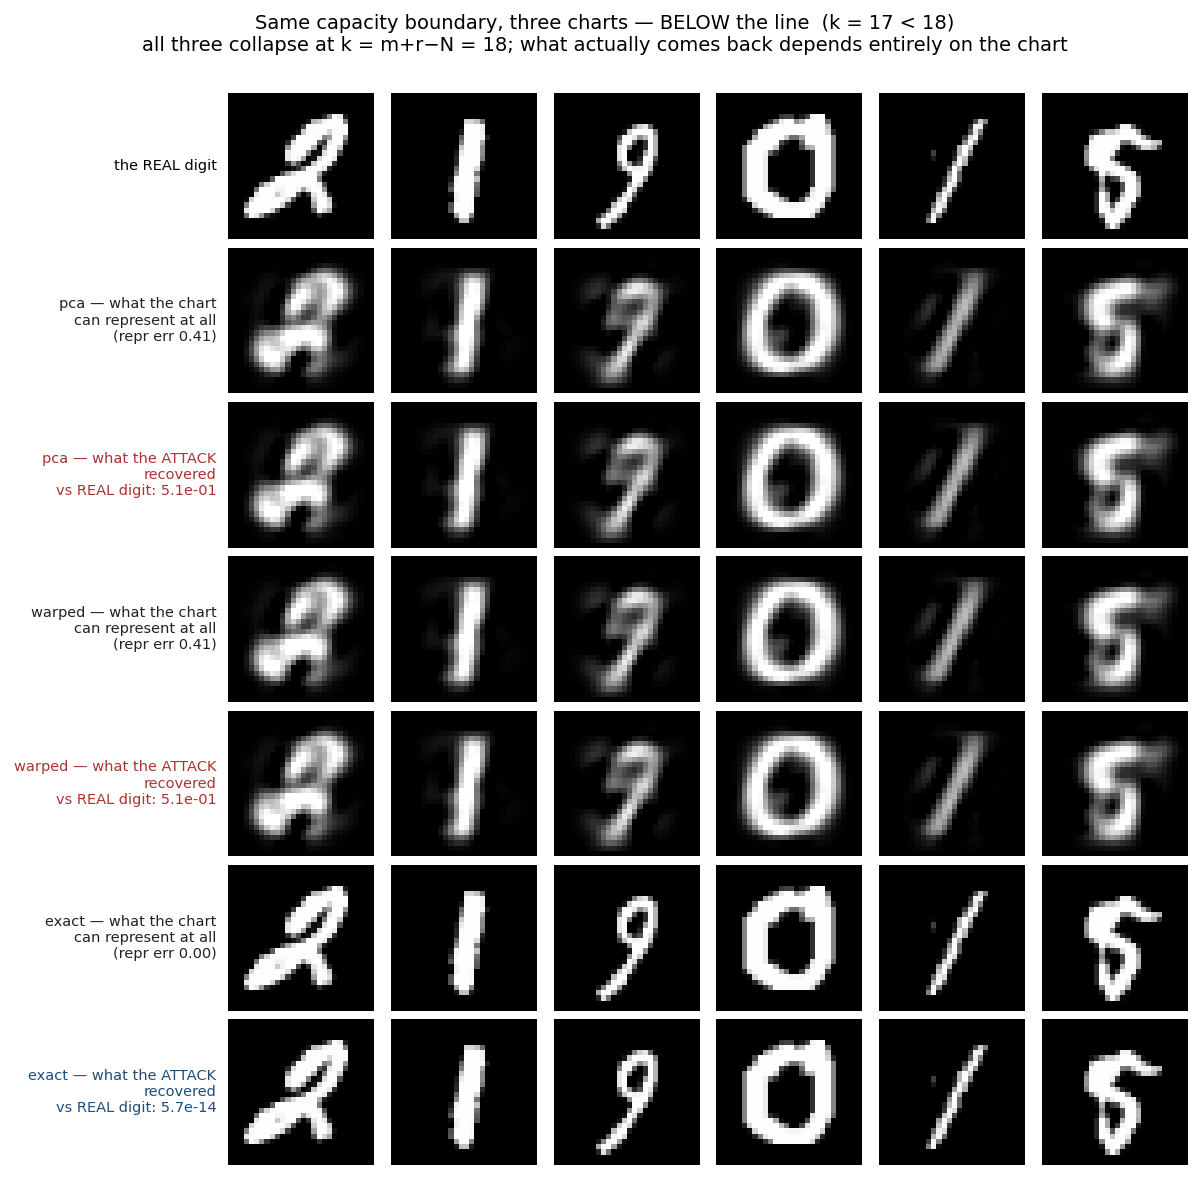
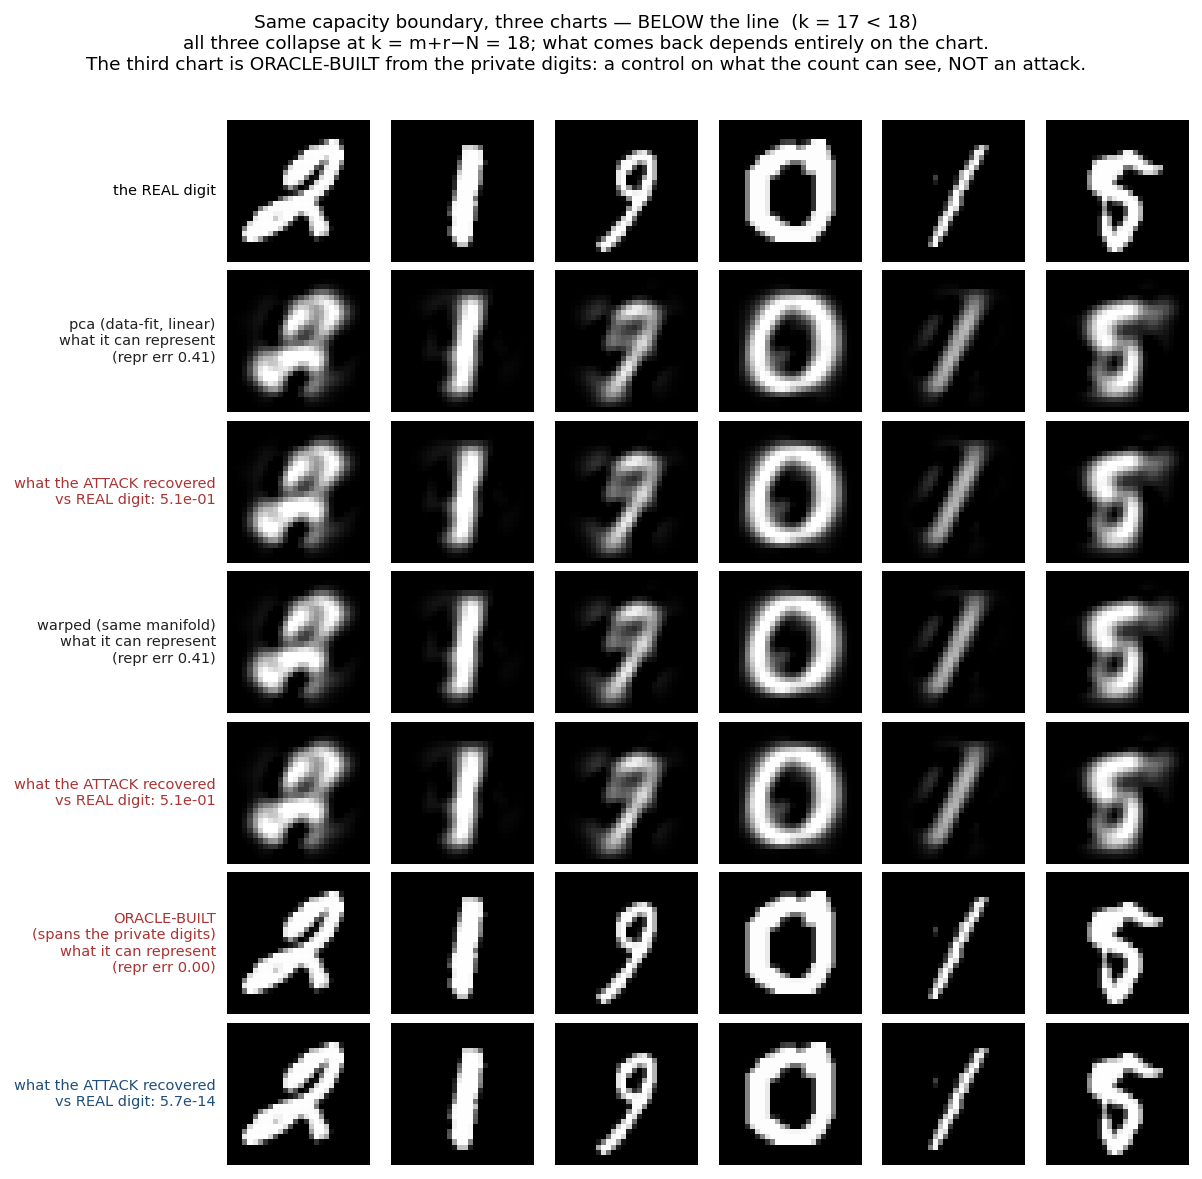
THREAT-MODEL correction to R4, found by the user: the recipe probe needs continued-training access
The probe reads eta off an observed step Delta B. If the ATTACKER takes that step they choose eta and
learn nothing from it. It only measures a recipe when the VICTIM'S optimizer takes the step with its
hidden eta -- a checkpoint carrying optimizer/scheduler state, or a fine-tuning service. The code does
exactly that (it steps with the true a.lr), so the experiment is sound; the CLAIM attached to it was not.
My own code comment read 'the attacker runs it; only eta is unknown', which is incoherent on its face.

Under the WEIGHTS-ONLY release assumed everywhere else in this study, R4 does NOT apply and neither the
schedule nor T is recoverable by it. What survives weights-only is R1-R3, which use only the released
factors: a wrong recipe cannot reach the residual floor, eta is fittable jointly with the data to 5e-16,
and the (eta,T) split and the labels are identifiable. Those carry the threat model; R4 is the weaker
contribution, and in the checkpoint case T is usually in the metadata anyway.

Scoped in RESULTS.md (Step 9 and the schedule verdict) and in the docstrings and inline comments of
calibrate_recipe.py and schedule_probe.py.

Also: the third chart in the chart-dependence figures is now labelled ORACLE-BUILT (spans the private
digits), with a caption line saying it is a control on what the count can see, not an attack.

Missed by me and by three independent audits; caught by the user re-deriving the threat model.

diff --git a/experiments/exact_inversion/calibrate_recipe.py b/experiments/exact_inversion/calibrate_recipe.py
@@ -8,15 +8,20 @@ Two ideas, both from the user (2026-09-03).
     Cauchy criterion — it certifies convergence without reference to the limit — and any recipe-selection
     rule must be built on it, never on reconstruction quality.
 
-(2) Continuation calibration. The attacker holds the released adapter and can keep training it on data of
-    their OWN choosing. Under a scalar-linear update one further step gives, exactly,
+(2) Continuation calibration -- NOTE THE STRONGER ACCESS MODEL. This works only if the VICTIM'S optimizer
+    takes the further step, with its hidden eta: a checkpoint carrying optimizer/scheduler state, or a
+    fine-tuning service. If the attacker takes the step themselves they choose eta and learn nothing.
+    Under the weights-only release assumed everywhere else here, this probe does not apply.
+    Given that access, one further step gives, exactly,
         Delta B = -eta * gB,     gB = D (A_T H')^T
     and the attacker knows A_T, B_T, their own H' and their own labels, hence knows gB. So eta falls out of
     a one-dimensional least squares. This converts "the recipe is known" from an assumption into a
     measurement, using no private data at all.
     It also DISCRIMINATES the optimizer family: under SGD the observed step is exactly parallel to gB
     (cosine 1); under Adam the coordinatewise normalisation destroys that, so the cosine drops.
-    What it cannot recover is T, the number of steps already taken before the release.
+    What it cannot recover is T, the number of steps already taken before the release -- and note that in
+    the checkpoint case T is usually in the metadata anyway, which is part of why this is the weaker
+    contribution: R1-R3, which need only the released weights, are the ones that carry the threat model.
 
 Imports the main testbed so the recipe cannot drift.
   python -m experiments.exact_inversion.calibrate_recipe --release sgd --T 400 --lr 0.01
@@ -70,7 +75,12 @@ def main():
         D = (softmax_cols(W0 @ Hp + B_T @ AH) - Yp) / a.Nprobe
         gB = D @ AH.T                                      # the SGD B-gradient on the probe batch
 
-    # ---- take ONE further step with the TRUE recipe (the attacker runs it; only eta is unknown) ----
+    # ---- ONE further step taken with the VICTIM'S recipe, i.e. with the hidden eta ----
+    # THREAT MODEL, and this is the whole scope of the result: the step below uses a.lr, the TRUE rate.
+    # If the ATTACKER took the step they would be choosing eta themselves and would learn nothing from it.
+    # So this measures a recipe only under CONTINUED-TRAINING ACCESS: a checkpoint carrying optimizer and
+    # scheduler state, or a fine-tuning service that trains on submitted data. Under a WEIGHTS-ONLY
+    # release -- the threat model of the rest of this study -- this probe does NOT apply.
     with torch.no_grad():
         if a.release == "sgd":
             B1 = (1 - a.lr * a.wd) * B_T - a.lr * gB

diff --git a/experiments/exact_inversion/RESULTS.md b/experiments/exact_inversion/RESULTS.md
@@ -754,12 +754,27 @@ released factors and the candidate alone. It is a Cauchy-type criterion — it c
 any reference to the limit — and it is therefore a legitimate recipe *selection* rule rather than a
 post-hoc diagnostic. Any claim built on reconstruction quality would not be.
 
-## Step 9 — the recipe can be MEASURED, not assumed (job 485912)
+## Step 9 — the recipe can be measured, but ONLY under continued-training access (job 485912)
 
-Proposed by the user: the attacker holds the released adapter and can keep training it on data of *their
-own* choosing. Under a scalar-linear update one further step gives exactly `ΔB = −η·gB` with
-`gB = D(A_T H′)ᵀ`, and the attacker knows the released factors, their own probe features `H′` and their own
-labels, hence knows `gB`. So `η` is a one-dimensional least squares, using **no private data at all**.
+**THREAT-MODEL CORRECTION (2026-09-03, found by the user; missed by me and by three independent audits).**
+This section originally read "the recipe can be MEASURED, not assumed", full stop. That is wrong as stated,
+and the error is basic: the probe reads `η` off an observed step `ΔB`, but **if the attacker takes that step
+they choose `η` themselves and learn nothing from it.** The measurement only works when the *victim's*
+optimizer takes the step with its hidden `η` — i.e. under **continued-training access**: a checkpoint
+carrying optimizer and scheduler state, or a fine-tuning service that trains on submitted data. The code
+does exactly that (`calibrate_recipe.py` steps with the true `a.lr`), so the experiment is sound; the
+*claim* attached to it was not. My own code comment read "the attacker runs it; only eta is unknown", which
+is incoherent on its face.
+
+**Under the weights-only release assumed everywhere else in this study, this probe does not apply**, and
+neither the schedule nor `T` is recoverable by it. What survives weights-only is R1-R3 below, which use only
+the released factors: a wrong recipe is detectable, `η` is fittable jointly with the data, and the `(η, T)`
+split and the labels are identifiable. Those are the results that carry the threat model; this one is the
+weaker contribution, and in the checkpoint case `T` is usually in the metadata anyway.
+
+Given that access, one further step gives exactly `ΔB = −η·gB` with `gB = D(A_T H′)ᵀ`, and the attacker
+knows the released factors, their own probe features `H′` and their own labels, hence knows `gB`. So `η` is
+a one-dimensional least squares, using **no private data**.
 
 | true recipe | true η | estimated η | relative error | `cos(ΔB, −gB)` | passes the parallelism test? |
 |---|---|---|---|---|---|
